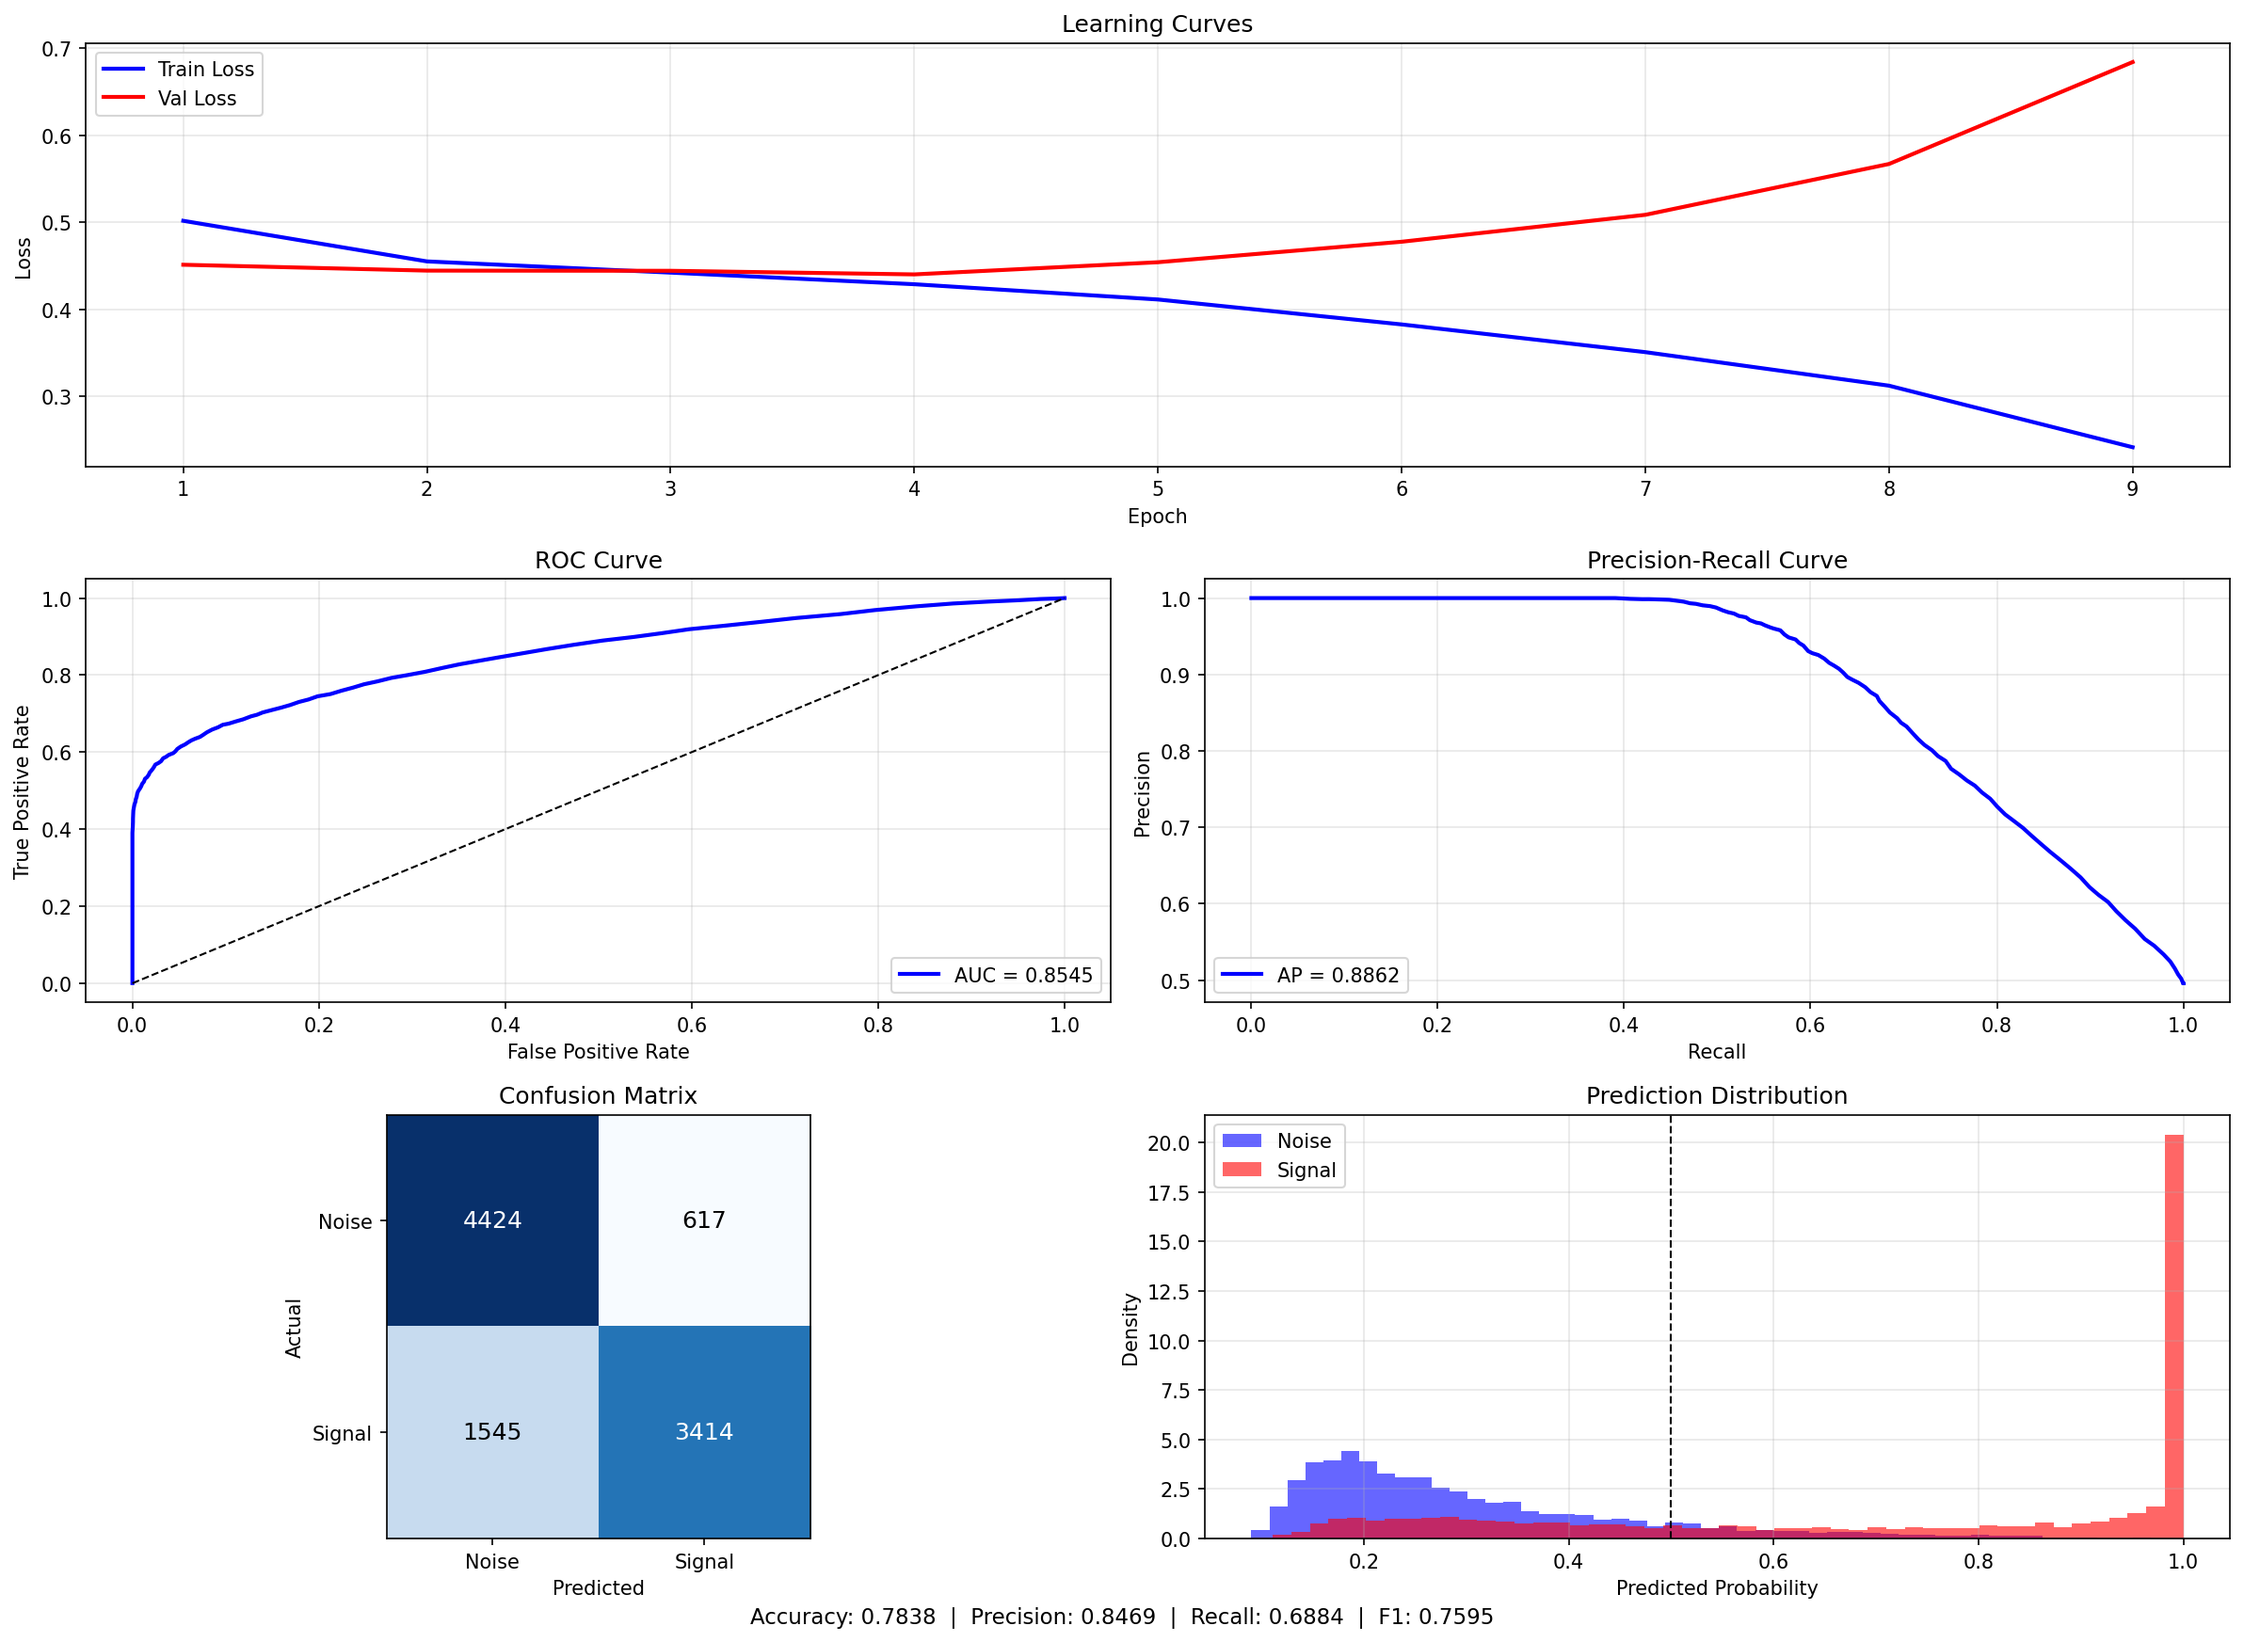
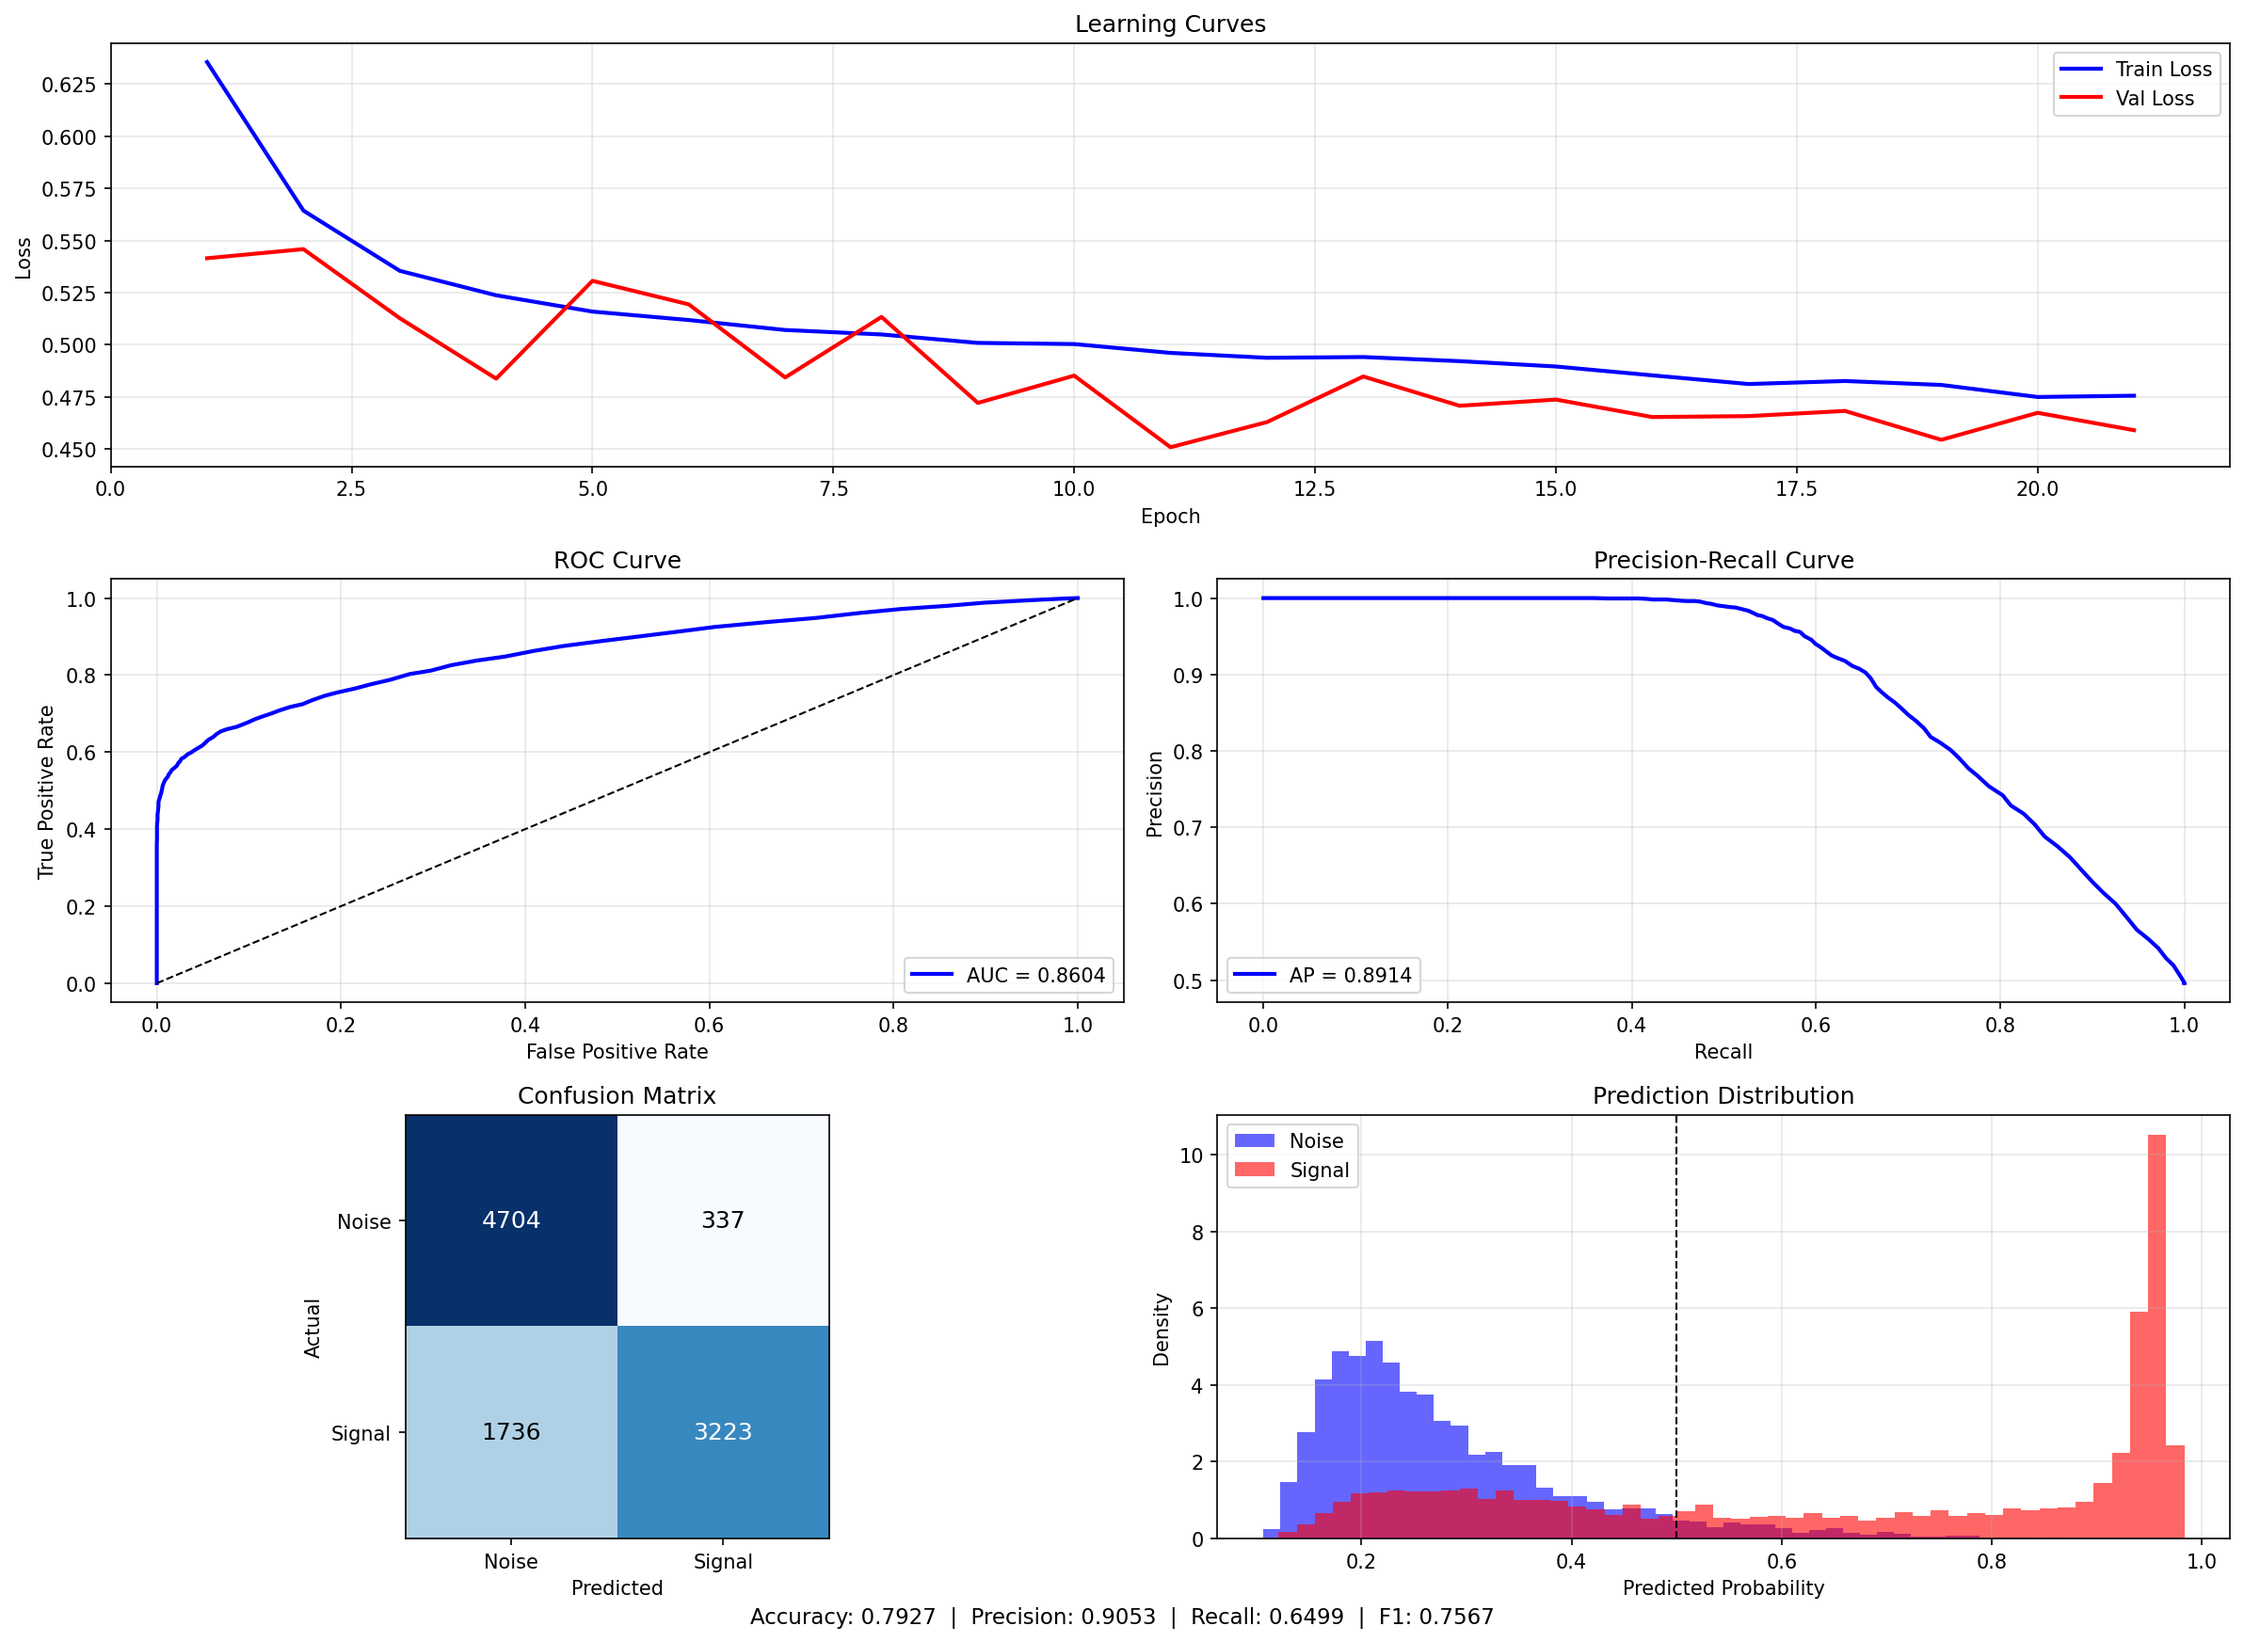
Update performance  metrics and dashboard for latest run

diff --git a/README.md b/README.md
@@ -41,7 +41,7 @@ Input (3 detectors x 4096 samples)
 
 | Accuracy | AUC | Precision | Recall | F1 |
 |----------|-----|-----------|--------|----|
-| 0.784 | 0.854 | 0.847 | 0.688 | 0.759 |
+| 0.788 | 0.858 | 0.905 | 0.641 | 0.750 |
 
 <p align="center"><img src="assets/dashboard.png" width="700"></p>
 
